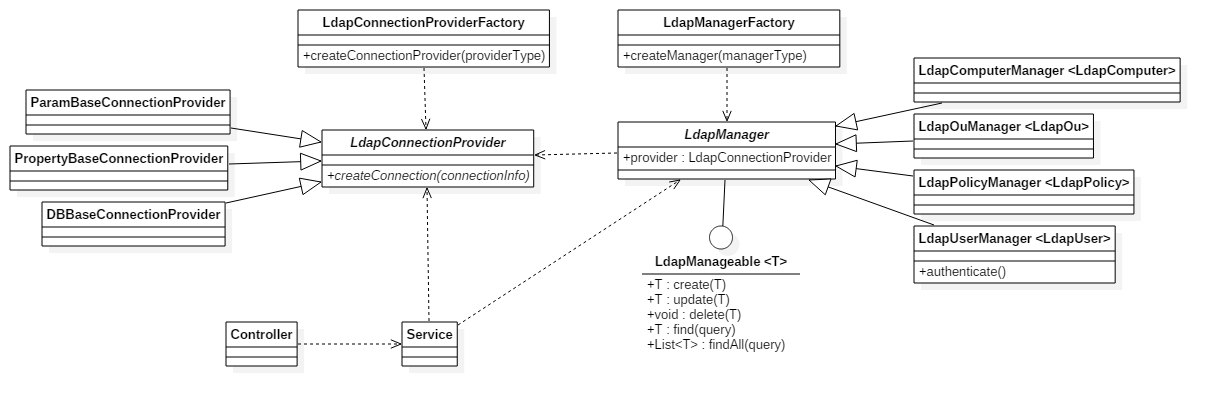
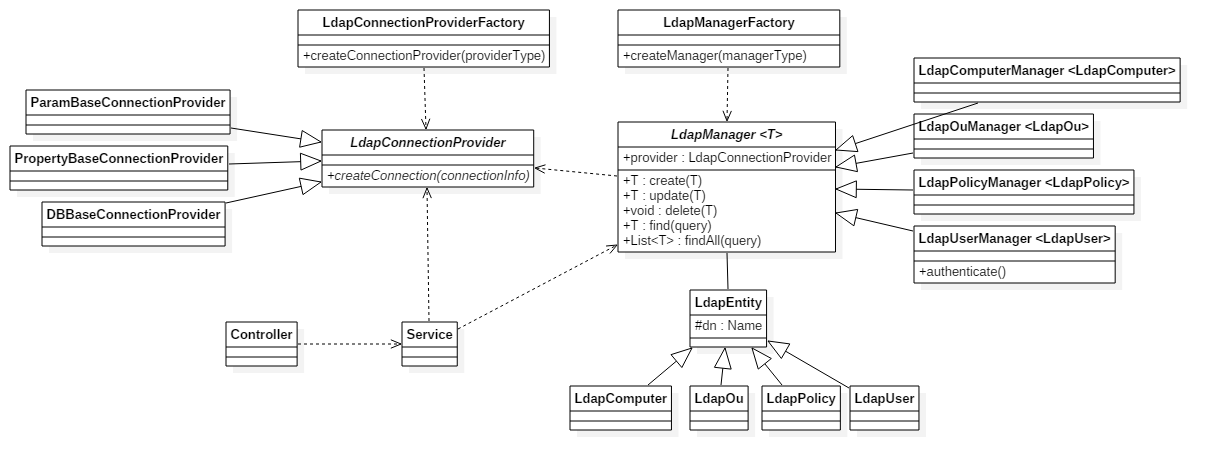
기본 클래스 생성
-. manager
-. connection

diff --git a/src/main/java/local/wkim/ldap/manager/LdapManager.java b/src/main/java/local/wkim/ldap/manager/LdapManager.java
@@ -1,0 +1,33 @@
+package local.wkim.ldap.manager;
+
+import java.util.List;
+
+import org.springframework.ldap.query.LdapQuery;
+
+public abstract class LdapManager<T>{
+
+	public T create(T entity) {
+		// TODO Auto-generated method stub
+		return null;
+	}
+	
+	public T update(T entity) {
+		// TODO Auto-generated method stub
+		return null;
+	}
+	
+	public void delete(T entity) {
+		// TODO Auto-generated method stub
+		
+	}
+	
+	public T find(LdapQuery query) {
+		// TODO Auto-generated method stub
+		return null;
+	}
+	
+	public List<T> findAll(LdapQuery query) {
+		// TODO Auto-generated method stub
+		return null;
+	}
+}

diff --git a/src/main/java/local/wkim/ldap/entity/LdapPolicy.java b/src/main/java/local/wkim/ldap/entity/LdapPolicy.java
@@ -1,0 +1,8 @@
+package local.wkim.ldap.entity;
+
+import org.springframework.ldap.odm.annotations.Entry;
+
+@Entry(objectClasses = {"container", "groupPolicyContainer", "top"}, base="CN=Policies,CN=System")
+public class LdapPolicy extends LdapEntity {
+
+}

diff --git a/src/main/java/local/wkim/ldap/entity/LdapOu.java b/src/main/java/local/wkim/ldap/entity/LdapOu.java
@@ -1,0 +1,8 @@
+package local.wkim.ldap.entity;
+
+import org.springframework.ldap.odm.annotations.Entry;
+
+@Entry(objectClasses = {"organizationalUnit", "top"})
+public class LdapOu extends LdapEntity{
+
+}

diff --git a/src/main/java/local/wkim/ldap/entity/LdapComputer.java b/src/main/java/local/wkim/ldap/entity/LdapComputer.java
@@ -1,0 +1,8 @@
+package local.wkim.ldap.entity;
+
+import org.springframework.ldap.odm.annotations.Entry;
+
+@Entry(objectClasses = {"computer", "top"})
+public class LdapComputer extends LdapEntity {
+
+}

diff --git a/src/main/java/local/wkim/ldap/entity/LdapEntity.java b/src/main/java/local/wkim/ldap/entity/LdapEntity.java
@@ -1,0 +1,11 @@
+package local.wkim.ldap.entity;
+
+import javax.naming.Name;
+
+import org.springframework.ldap.odm.annotations.Id;
+
+public abstract class LdapEntity {
+
+	@Id
+	protected Name dn;
+}

diff --git a/src/main/java/local/wkim/ldap/entity/LdapUser.java b/src/main/java/local/wkim/ldap/entity/LdapUser.java
@@ -1,0 +1,8 @@
+package local.wkim.ldap.entity;
+
+import org.springframework.ldap.odm.annotations.Entry;
+
+@Entry(objectClasses = { "top", "user" })
+public class LdapUser extends LdapEntity {
+
+}

diff --git a/src/main/java/local/wkim/ldap/manager/LdapPolicyManager.java b/src/main/java/local/wkim/ldap/manager/LdapPolicyManager.java
@@ -1,0 +1,7 @@
+package local.wkim.ldap.manager;
+
+import local.wkim.ldap.entity.LdapPolicy;
+
+public class LdapPolicyManager extends LdapManager<LdapPolicy> {
+
+}

diff --git a/src/main/java/local/wkim/ldap/manager/LdapUserManager.java b/src/main/java/local/wkim/ldap/manager/LdapUserManager.java
@@ -1,0 +1,7 @@
+package local.wkim.ldap.manager;
+
+import local.wkim.ldap.entity.LdapUser;
+
+public class LdapUserManager extends LdapManager<LdapUser> {
+
+}

diff --git a/src/main/java/local/wkim/ldap/manager/LdapOuManager.java b/src/main/java/local/wkim/ldap/manager/LdapOuManager.java
@@ -1,0 +1,7 @@
+package local.wkim.ldap.manager;
+
+import local.wkim.ldap.entity.LdapOu;
+
+public class LdapOuManager extends LdapManager<LdapOu> {
+
+}

diff --git a/src/main/java/local/wkim/ldap/connection/PropertyBaseConnectionProvider.java b/src/main/java/local/wkim/ldap/connection/PropertyBaseConnectionProvider.java
@@ -1,0 +1,5 @@
+package local.wkim.ldap.connection;
+
+public class PropertyBaseConnectionProvider  extends LdapConnectionProvider {
+
+}

diff --git a/src/main/java/local/wkim/ldap/connection/ParamBaseConnectionProvider.java b/src/main/java/local/wkim/ldap/connection/ParamBaseConnectionProvider.java
@@ -1,0 +1,5 @@
+package local.wkim.ldap.connection;
+
+public class ParamBaseConnectionProvider  extends LdapConnectionProvider {
+
+}

diff --git a/src/main/java/local/wkim/ldap/connection/DBBaseConnectionProvider.java b/src/main/java/local/wkim/ldap/connection/DBBaseConnectionProvider.java
@@ -1,0 +1,5 @@
+package local.wkim.ldap.connection;
+
+public class DBBaseConnectionProvider extends LdapConnectionProvider {
+
+}
